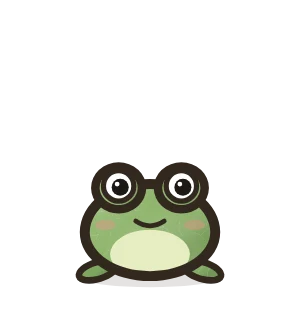
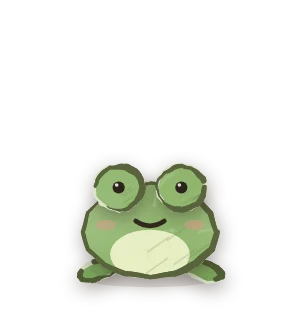
경칩: back to the first redrawn frog (hand-cut pieces)
Claude-Session: https://claude.ai/code/session_016ioJ69CuXoXrzpqUzCLwEY

Changed region(s): [[0.24, 0.5, 0.78, 0.9375], [0.54, 0.7188, 0.57, 0.75]]

diff --git a/design/art/src/hanji_collect.js b/design/art/src/hanji_collect.js
@@ -21,14 +21,14 @@
     usu: function (ctx) { one(ctx, drop(0, 6, 8), "#A9CFE0", 6131, { tone: 0.12 }); one(ctx, blob(0, 22.6, 12, 1.8, 6132, 0.04), "#C7DFEA", 6132, { rim: 0.2, sh: 0.2 });
       one(ctx, blob(-2.6, 2.4, 1.4, 3, 6133, 0.1, -0.4), "#E6F2F7", 6133, { rim: 0, sh: 0 }); },
     // 경칩: 정원 손님과 같은 결 (굵은 먹선 · 하루와 같은 눈). 40 × 40 손님 상자를 한 장 자리로 옮겨 그림
-    gyeongchip: function (ctx) { var hand = HAND; HAND = false; ensureTex(); ctx.save(); ctx.translate(-20 * 0.95, 24 - 37 * 0.95); ctx.scale(0.95, 0.95);
+    gyeongchip: function (ctx) { ctx.save(); ctx.translate(-20 * 0.95, 24 - 37 * 0.95); ctx.scale(0.95, 0.95);
       gShadow(ctx, 20, 26);
       [[9, 35, -0.3], [31, 35, 0.3]].forEach(function (f) { gPiece(ctx, gOval(f[0], f[1], 4.2, 1.8, f[2]), "#7CA65C", { line: 1.4 }); });
       gPiece(ctx, gOval(20, 27, 14, 10.4, 0, 0.9), "#8DB46A", { inner: function (c) { c.fillStyle = "#E6EDC2"; c.beginPath(); c.ellipse(20, 31.6, 8.4, 5.2, 0, 0, 7); c.fill(); } });
       gPiece(ctx, gOval(13.4, 17.6, 5, 4.6), "#8DB46A", { line: 1.8 }); gPiece(ctx, gOval(26.6, 17.6, 5, 4.6), "#8DB46A", { line: 1.8 });
       gEye(ctx, 13.4, 17.2, 3.2, 0.3); gEye(ctx, 26.6, 17.2, 3.2, 0.3);
       ctx.fillStyle = "rgba(229,150,140,.45)"; ctx.beginPath(); ctx.ellipse(10.6, 25.4, 2.2, 1.1, 0, 0, 7); ctx.fill(); ctx.beginPath(); ctx.ellipse(29.4, 25.4, 2.2, 1.1, 0, 0, 7); ctx.fill();
-      ctx.strokeStyle = GINK; ctx.lineWidth = 1; ctx.lineCap = "round"; ctx.beginPath(); ctx.moveTo(17, 24.6); ctx.quadraticCurveTo(20, 26.6, 23, 24.6); ctx.stroke(); ctx.restore(); HAND = hand; },
+      ctx.strokeStyle = GINK; ctx.lineWidth = 1; ctx.lineCap = "round"; ctx.beginPath(); ctx.moveTo(17, 24.6); ctx.quadraticCurveTo(20, 26.6, 23, 24.6); ctx.stroke(); ctx.restore(); },
     chunbun: function (ctx) { one(ctx, disc(0, 6, 13, -Math.PI / 2, Math.PI / 2), "#F3C46A", 6151, { rim: 0.4 }); one(ctx, disc(0, 6, 13, Math.PI / 2, Math.PI * 1.5), "#5E6A8E", 6152, { rim: 0.4 });
       dot(ctx, -6, 2, 0.9, "#F6EAC4"); dot(ctx, -4, 11, 0.7, "#F6EAC4"); },
     cheongmyeong: function (ctx) { twig(ctx, [-14, -10, -4, -12, 6, -11, 15, -13], 1.8, 1);
